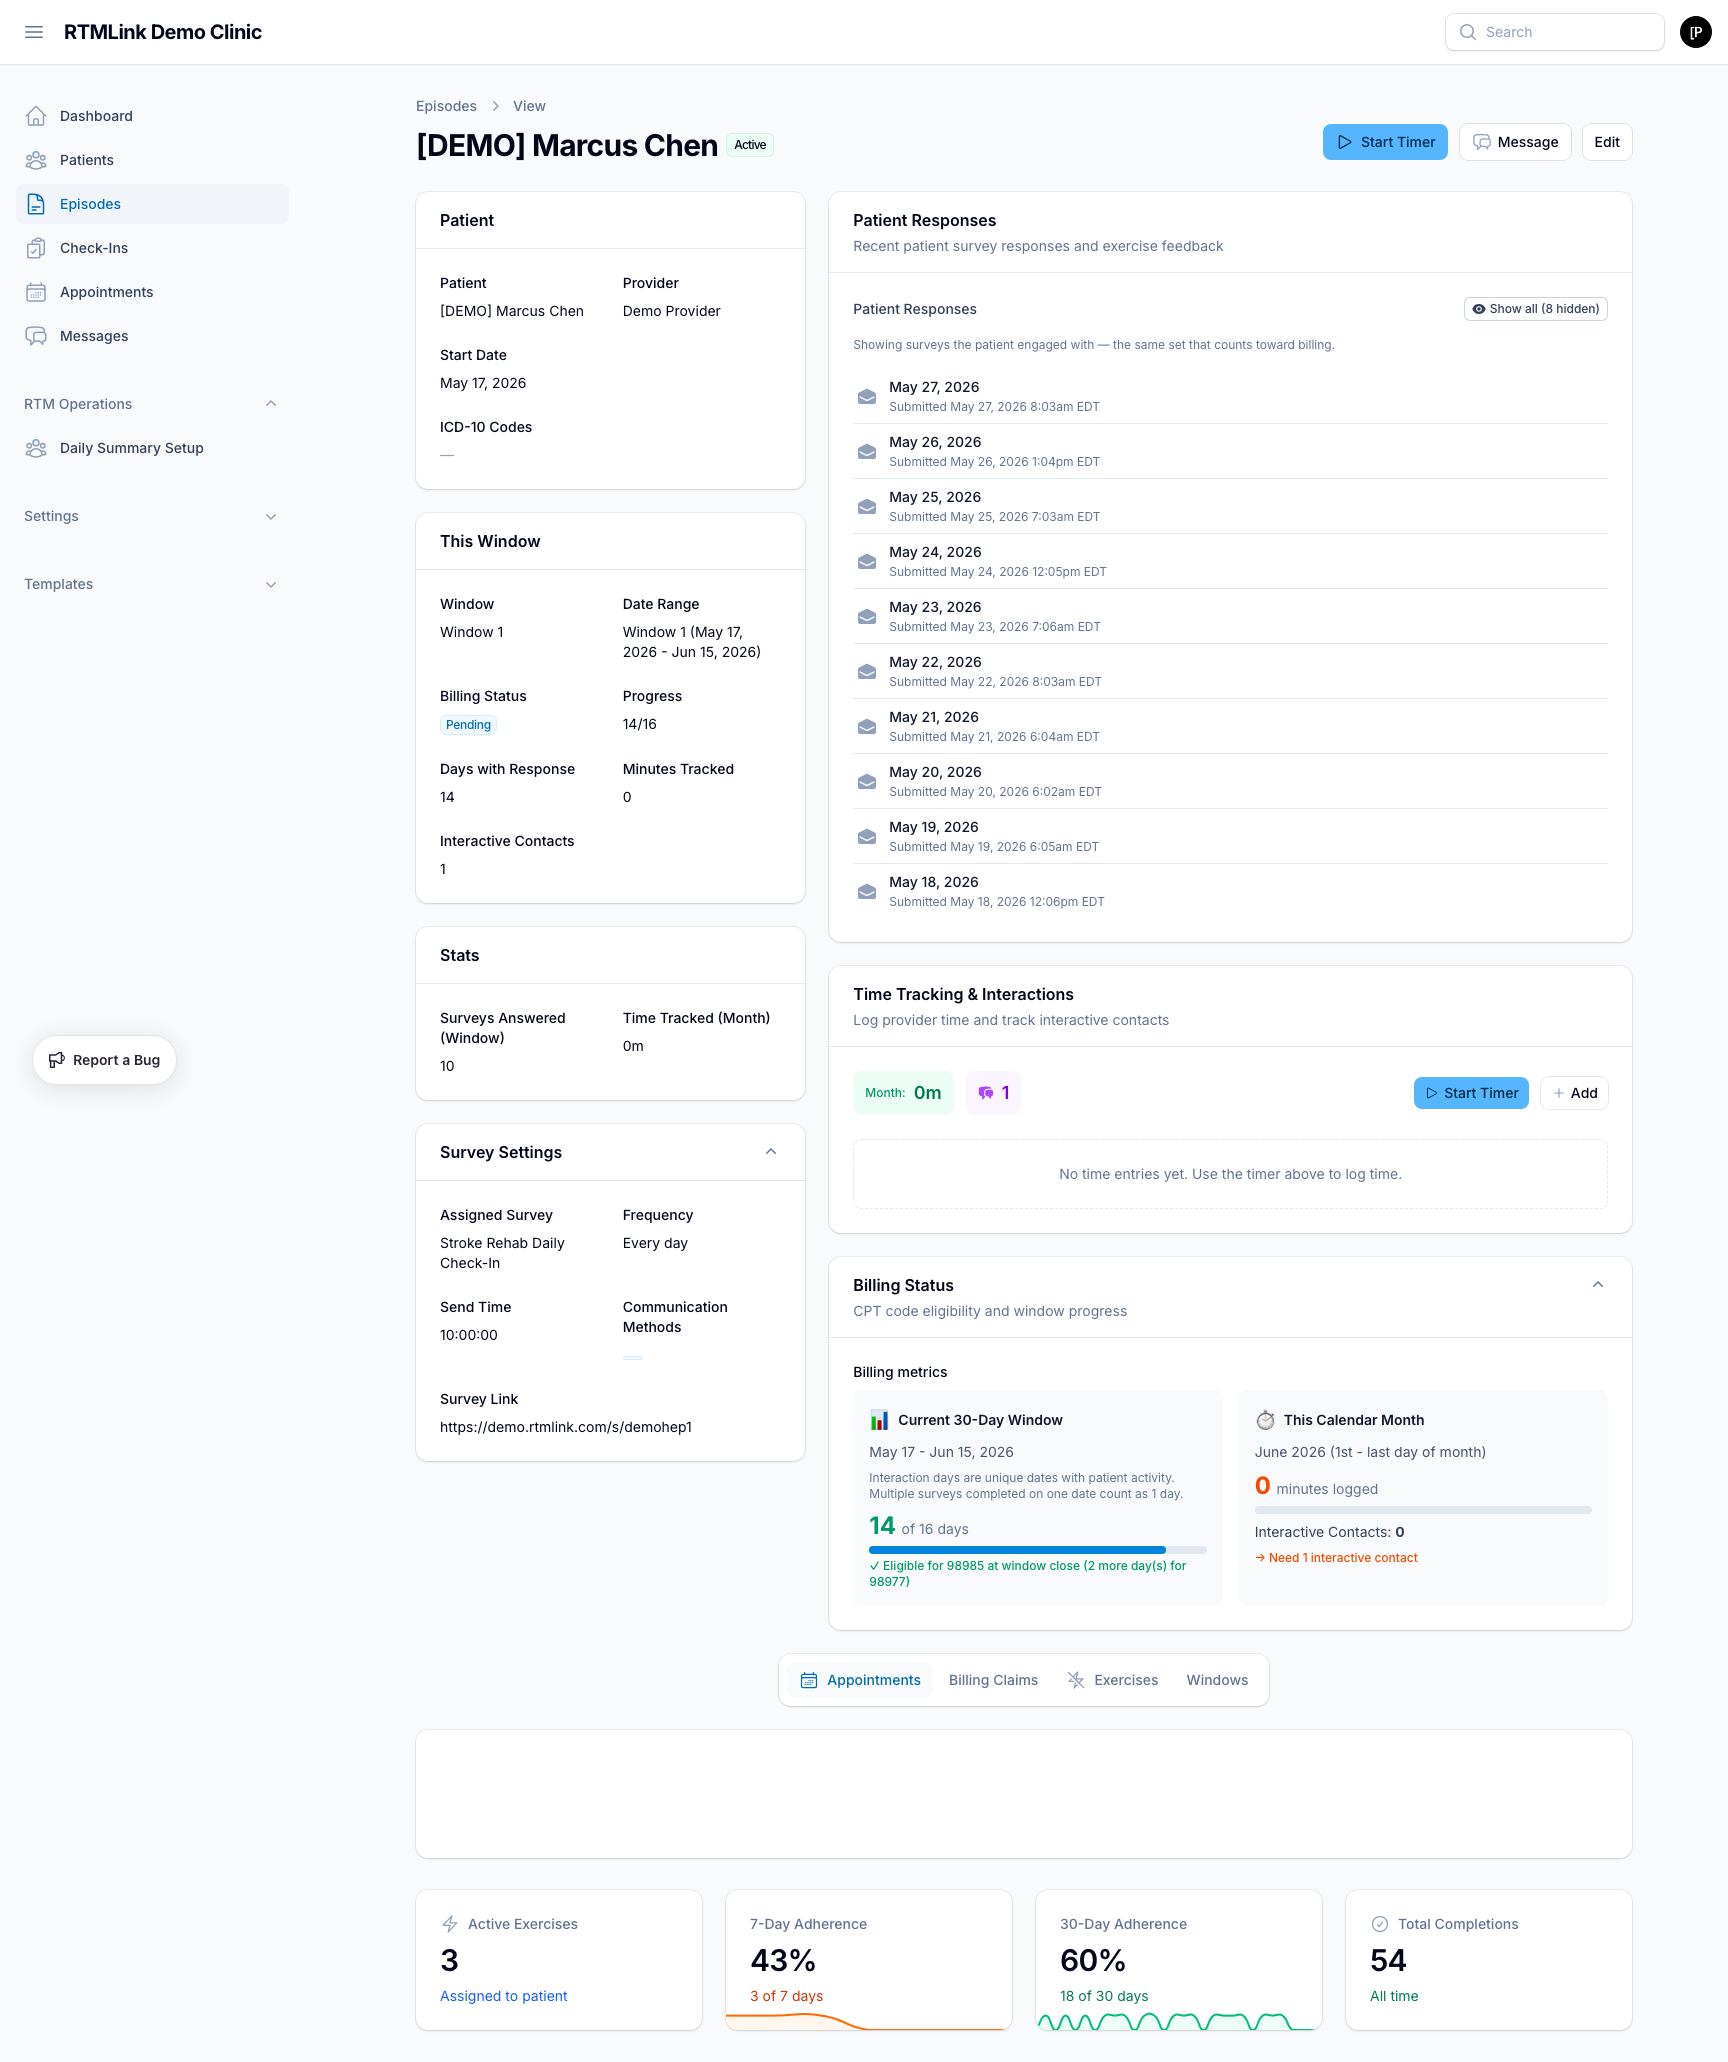
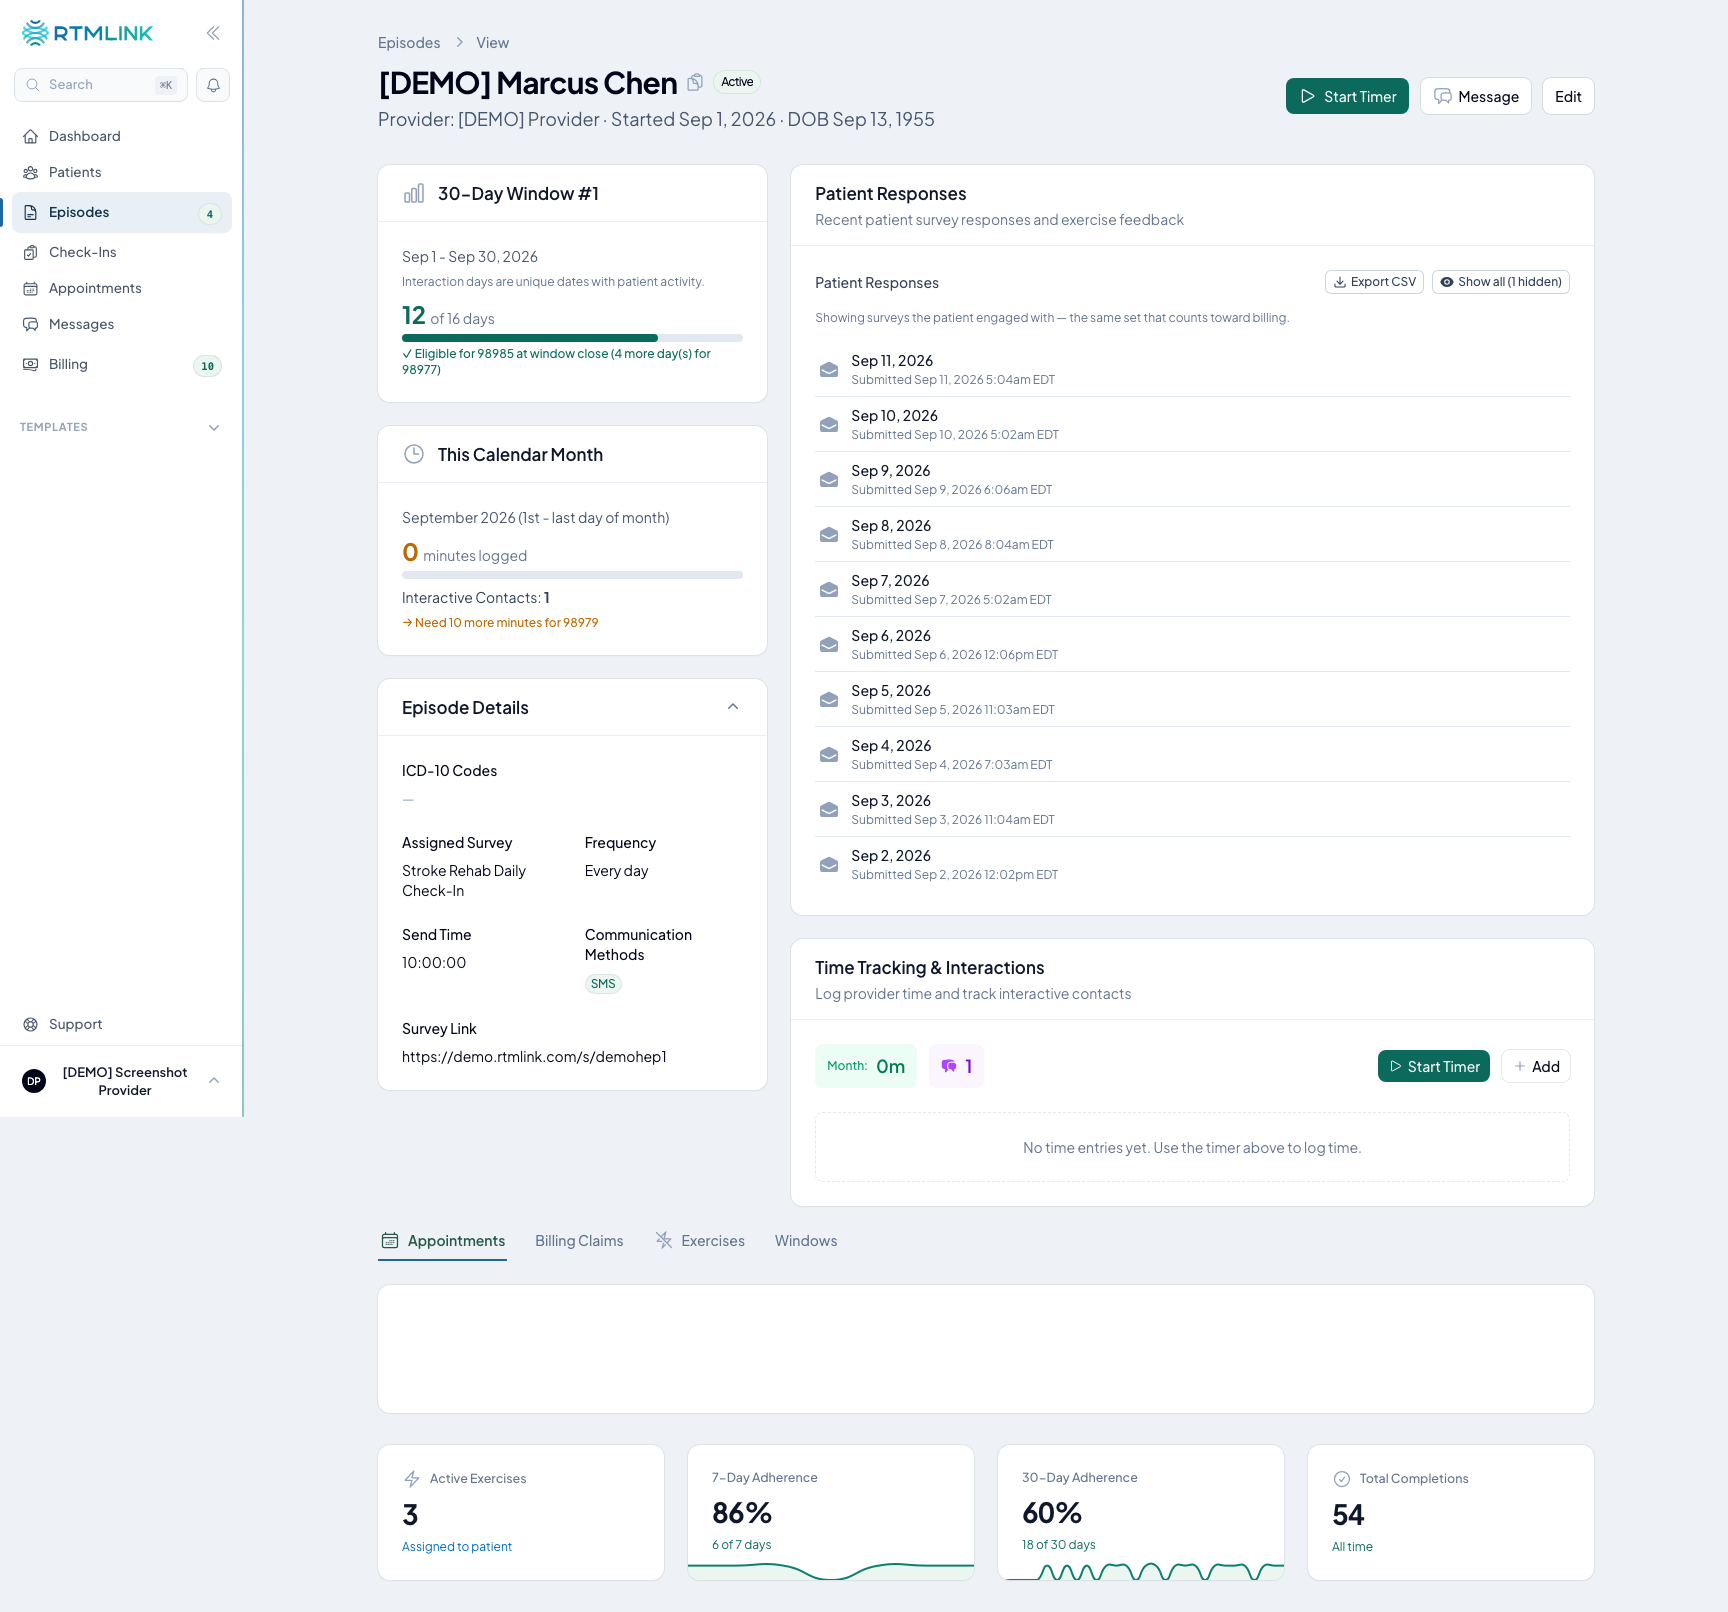
docs(visualizer): exercise screenshots for the Program Builder
Captured from demo.rtmlink.com (demo tenant only) against app main af14994:
- exercise-library (new): library grid searched for "ankle"
- exercise-plan-panel (new): plan slide-over, cropped to the panel
- episode-exercises-tab (re-shoot): Manage plan + actions, cropped to
  the relation manager
- exercise-adherence (re-shoot): redesigned episode page

Registry specs hardened: position-based card toggles (strict-mode safe),
visible-tab click, image-load delay steps, and a data-bearing wait_for on
the episode tab so an empty demo can't silently replace a good image.
Library article gains a line for the new What's new strip + tour.

diff --git a/exercises/the-exercise-library.md b/exercises/the-exercise-library.md
@@ -8,6 +8,10 @@ The **exercise library** is where every exercise you can prescribe lives. Each e
 
 Open **Exercises** in the left sidebar, under the **Templates** group. The page is titled **Exercise library** and has two tabs: **Exercises** and **Programs** (see [Exercise programs](exercise-programs.md)). You'll only see it if your clinic has exercises enabled.
 
+> **New to the rebuilt library?** A **What's new** strip at the top offers **Show me what changed**, a short guided tour of the page. Click **Got it** to hide the strip. You can replay the tour any time from **More**, then **What's new**.
+
+![The Exercise library searched for "ankle": exercise cards with illustrations, source tags, categories, default doses, and a + button on each card, with the Exercises and Programs tabs, More, and New exercise at the top.](../.gitbook/assets/exercises/exercise-library.png)
+
 ## Finding exercises
 
 Exercises appear as cards. To narrow them down:

diff --git a/exercises/building-an-exercise-plan.md b/exercises/building-an-exercise-plan.md
@@ -39,6 +39,8 @@ As soon as your plan has an exercise, a dark **plan bar** appears at the top of 
 
 Click **Review plan** on the plan bar. A panel slides in from the right with every exercise in your plan.
 
+![The plan panel for a new plan with two exercises, each showing Sets, Reps, Hold, Rest, Weight, Side, Times / day, Days / week, and a note field, with Save as program and Assign to patient at the bottom.](../.gitbook/assets/exercises/exercise-plan-panel.png)
+
 1. **Name the plan** (optional): click the name at the top to rename it.
 2. For each exercise, set the prescription:
    - **Sets**, **Reps**, **Hold (sec)**, and **Rest (sec)**: leave any of these blank to use the exercise's library default. The default shows in gray inside the field and under the exercise name (for example, "library default 3 × 10, 5s").

diff --git a/exercises/assigning-hep-to-an-episode.md b/exercises/assigning-hep-to-an-episode.md
@@ -41,6 +41,8 @@ If an exercise can't be assigned (for example, it's private to another patient),
 
 Open the patient's episode and select the **Exercises** tab.
 
+![A patient's Exercises tab with three exercises from a program, each with its prescription, frequency, program, and status, and the Manage plan, New Exercise for this Patient, Assign Exercise, Assign Program, and Print Handout buttons.](../.gitbook/assets/exercises/episode-exercises-tab.png)
+
 | Column | What it shows |
 |--------|---------------|
 | **#** | The order the patient does them in. |
